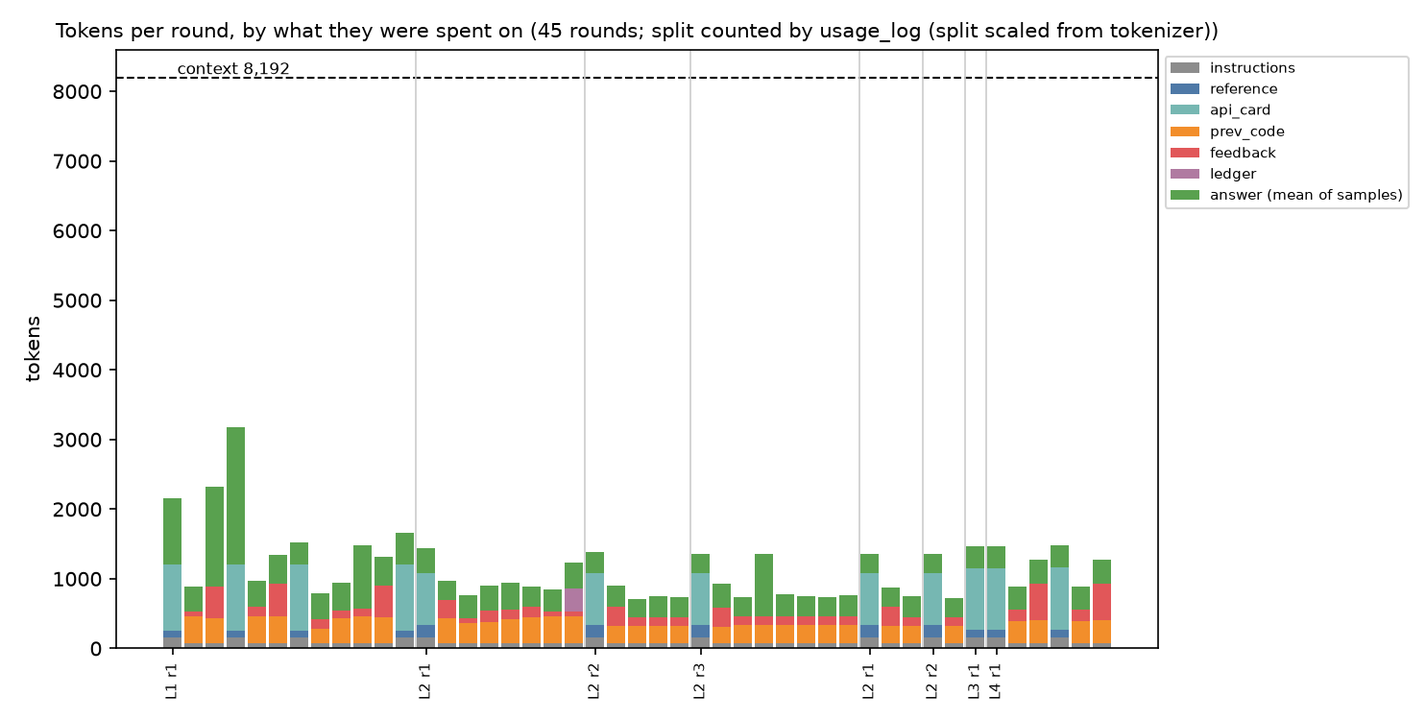
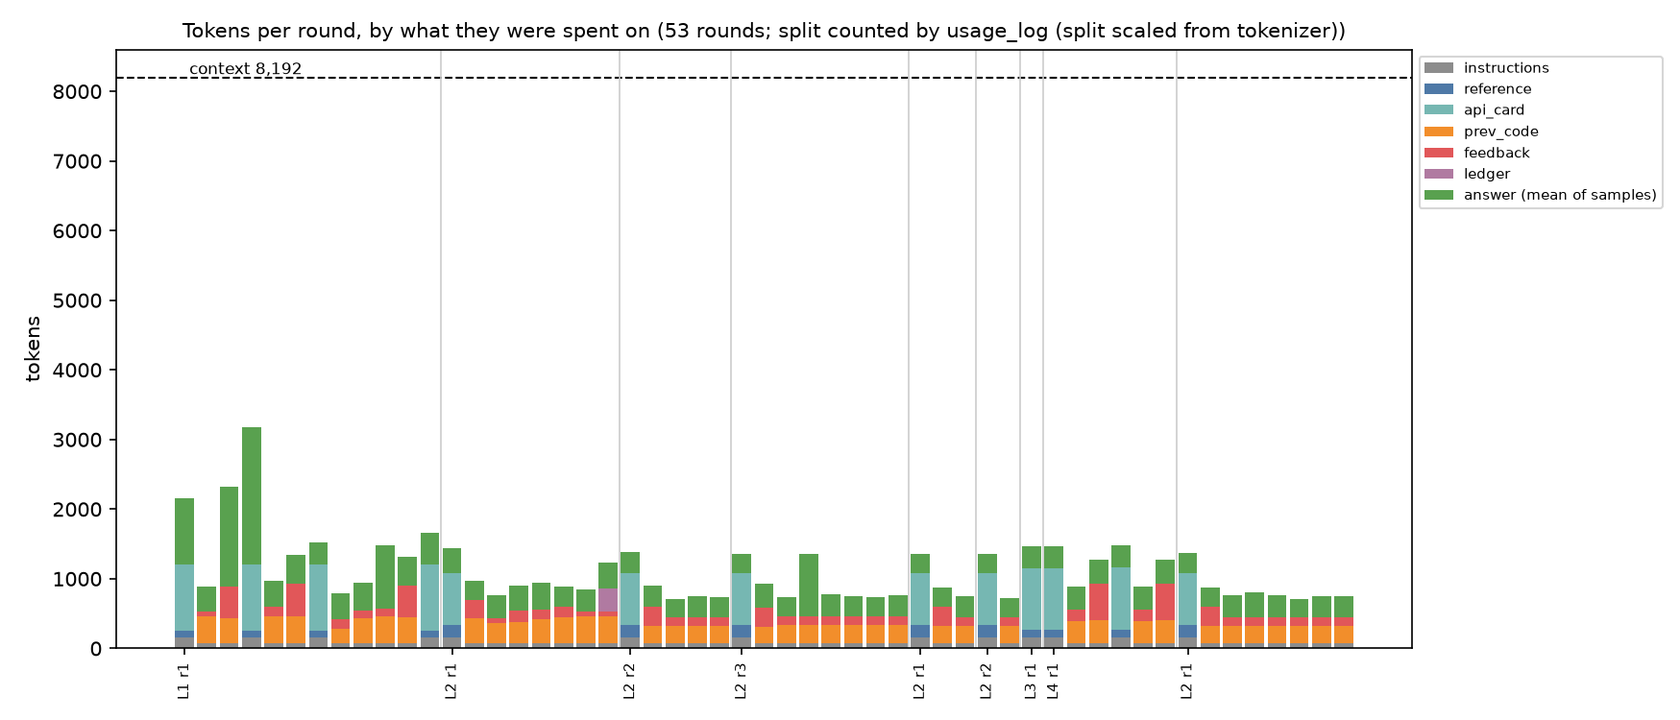
final_v82: add the finished extra level-2 run (seat-117 v82x); L2 is 3/6
Logs pulled by 16:57. seat-117's v82x_L2 (same v8.2 configuration) finished
unsolved at 0.50 -- rounds 1-7 all 0.50; of its eight 0.50 attempts, six
drop a loop variable and one returns x unchanged (analysis/l2_deep's
transforms). L2 now 3/6, both verdicts NOT SOLVED/FAILED on it. The extra L1
runs on 117 and 119 were still running and are left out.

Changed region(s): [[0.0, 0.0307, 0.9912, 0.9813], [0.5886, 0.092, 0.6505, 0.1227], [0.6815, 0.092, 0.7125, 0.1227]]

diff --git a/analysis/final_v82/taxonomy.md b/analysis/final_v82/taxonomy.md
@@ -1,13 +1,13 @@
 # Failure taxonomy
 
-180 attempts in 12 level-runs from 9 log file(s); 168 failed. Each attempt is classified by the checker's error, first match wins (`scripts/taxonomy.py`).
+212 attempts in 13 level-runs from 10 log file(s); 200 failed. Each attempt is classified by the checker's error, first match wins (`scripts/taxonomy.py`).
 
 ## Solve rate per level
 
 | level | solved runs |
 |---|---|
 | 1 | 4/4 |
-| 2 | 3/5 |
+| 2 | 3/6 |
 | 3 | 1/1 |
 | 4 | 2/2 |
 
@@ -17,24 +17,24 @@
 
 | family | mode | what it means | L1 | L2 | L3 | L4 | total | % of failures | runs | stuck | example |
 |---|---|---|---|---|---|---|---|---|---|---|---|
-| index arithmetic | `copy_size_mismatch` | copies between tiles of different sizes | 1 | 68 |  |  | 69 | 41% | 6 | 0% | AssertionError: dma_copy requires src and dst to have the same number of elements, got src=32, dst=1 |
-| index arithmetic | `broadcast` | assigns a value of the wrong shape | 3 |  | 2 | 20 | 25 | 15% | 4 | 25% | ValueError: operands could not be broadcast together with remapped shapes [original->remapped]: (32,16,2) and  |
+| index arithmetic | `copy_size_mismatch` | copies between tiles of different sizes | 1 | 89 |  |  | 90 | 45% | 7 | 0% | AssertionError: dma_copy requires src and dst to have the same number of elements, got src=32, dst=1 |
+| index arithmetic | `broadcast` | assigns a value of the wrong shape | 3 |  | 2 | 20 | 25 | 12% | 4 | 25% | ValueError: operands could not be broadcast together with remapped shapes [original->remapped]: (32,16,2) and  |
 | index arithmetic | `axis_mismatch` | an operation given a tile with more axes than it takes | 7 |  |  |  | 7 | 4% | 3 | 0% | ValueError: input operand has more dimensions than allowed by the axis remapping |
 | index arithmetic | `out_of_bounds` | indexes past the end of a tensor | 1 | 2 |  |  | 3 | 2% | 3 | - | AssertionError: Out-of-bound access for tensor `unnamed` on dimension 2: index 2 exceed dimension size of 2. |
 | index arithmetic | `bad_access_pattern` | a strided .ap() view that does not fit the tile | 2 |  |  |  | 2 | 1% | 2 | - | AssertionError: ap() pattern has invalid partition stride. Partition step 64 must equal tensor free dimension  |
-| silent wrong numbers | `numeric_mismatch` | runs, numbers wrong | 4 | 16 |  |  | 20 | 12% | 6 | 67% | 0 of 4 shapes passed. On C,H,W=(32, 32, 32) pool=2: NUMERICAL MISMATCH: worst error 4.71 of the output's RMS ( |
+| silent wrong numbers | `numeric_mismatch` | runs, numbers wrong | 4 | 24 |  |  | 28 | 14% | 7 | 78% | 0 of 4 shapes passed. On C,H,W=(32, 32, 32) pool=2: NUMERICAL MISMATCH: worst error 4.71 of the output's RMS ( |
 | silent wrong numbers | `non_finite` | NaN or Inf in the output |  | 4 |  |  | 4 | 2% | 1 | 67% | 0 of 4 shapes passed. On shape=(32, 12) as 3x4: NON-FINITE OUTPUT: 256 NaN and 0 Inf, first at (0, 4). Usually |
-| other | `other` |  | 8 |  |  |  | 8 | 5% | 3 | 0% | Correct in the simulator on every shape, but the trn2 compiler rejects it: the chip has no such instruction, s |
-| rules / format | `truncated` | the answer hit max_tokens and was cut off (finish=length); the checker then sees broken code | 7 | 1 |  |  | 8 | 5% | 4 | - | Your previous answer was cut off at the token limit before the code was complete. Reply with a shorter kernel: |
-| rules / format | `rule_violation` | banned call, missing @nki.jit or wrong entry name |  | 4 |  |  | 4 | 2% | 3 | - | Rule violations, which score zero however fast the kernel is. |
-| memory model | `python_op_on_tile` | Python arithmetic (+=, *) on a tile | 5 |  |  |  | 5 | 3% | 3 | - | TypeError: unsupported operand type(s) for /: 'NkiTensor' and 'int' Python operators like `/` do not work on t |
+| other | `other` |  | 8 |  |  |  | 8 | 4% | 3 | 0% | Correct in the simulator on every shape, but the trn2 compiler rejects it: the chip has no such instruction, s |
+| rules / format | `truncated` | the answer hit max_tokens and was cut off (finish=length); the checker then sees broken code | 7 | 1 |  |  | 8 | 4% | 4 | - | Your previous answer was cut off at the token limit before the code was complete. Reply with a shorter kernel: |
+| rules / format | `rule_violation` | banned call, missing @nki.jit or wrong entry name |  | 7 |  |  | 7 | 4% | 4 | - | Rule violations, which score zero however fast the kernel is. |
+| memory model | `python_op_on_tile` | Python arithmetic (+=, *) on a tile | 5 |  |  |  | 5 | 2% | 3 | - | TypeError: unsupported operand type(s) for /: 'NkiTensor' and 'int' Python operators like `/` do not work on t |
 | memory model | `wrong_buffer` | a tile in the wrong memory (SBUF / PSUM / HBM) | 1 | 2 |  |  | 3 | 2% | 2 | 50% | AssertionError: tensor_copy dst must be in ['sbuf', 'psum'], got shared_hbm `nisa.tensor_copy` only moves data |
 | API | `invented_name` | calls an NKI function or attribute that does not exist | 1 | 2 |  |  | 3 | 2% | 3 | 0% | AttributeError: module 'nki.language' has no attribute 'reshape' nl has no reshape. |
 | API | `wrong_signature` | right function, wrong arguments | 1 | 1 |  |  | 2 | 1% | 2 | - | TypeError: sum() got an unexpected keyword argument 'dst' |
 | tiling rules | `tile_1d` | a 1-D tile (every SBUF/PSUM tile needs 2 dims) | 3 |  |  |  | 3 | 2% | 2 | 0% | AssertionError: SBUF and PSUM tensors must have at least 2 dimensions (partition-dim and free-dim) |
 | tiling rules | `partition_over_128` | a tile or contraction larger than 128 partitions |  |  |  | 2 | 2 | 1% | 2 | 0% | AssertionError: dma_copy dst partition dimension 256 exceeds maximum 128 `lhs_tile` and `rhs_tile` are bigger  |
 
-By family: **index arithmetic** 106 (63%), **silent wrong numbers** 24 (14%), **rules / format** 12 (7%), **other** 8 (5%), **memory model** 8 (5%), **API** 5 (3%), **tiling rules** 5 (3%)
+By family: **index arithmetic** 127 (64%), **silent wrong numbers** 32 (16%), **rules / format** 15 (8%), **other** 8 (4%), **memory model** 8 (4%), **API** 5 (2%), **tiling rules** 5 (2%)
 
 ## Fixed one thing, broke another
 
@@ -42,7 +42,7 @@ Round-to-round changes in the carried attempt's failure mode (not counting a sol
 
 | was | became | times |
 |---|---|---|
-| `copy_size_mismatch` | `numeric_mismatch` | 3 |
+| `copy_size_mismatch` | `numeric_mismatch` | 4 |
 | `broadcast` | `partition_over_128` | 2 |
 | `axis_mismatch` | `other` | 1 |
 | `tile_1d` | `other` | 1 |
@@ -57,8 +57,8 @@ Round-to-round changes in the carried attempt's failure mode (not counting a sol
 
 | level | last failure | runs |
 |---|---|---|
+| 2 | `numeric_mismatch` | 2 |
 | 2 | `non_finite` | 1 |
-| 2 | `numeric_mismatch` | 1 |
 
 8 attempt(s) were cut off by the token budget (finish=length).
 
@@ -69,10 +69,10 @@ After the loop, each level's best kernel ran once on shapes and values it never 
 | level | verdict | runs |
 |---|---|---|
 | 1 | VERIFIED | 4 |
-| 2 | NOT SOLVED | 2 |
+| 2 | NOT SOLVED | 3 |
 | 2 | VERIFIED | 3 |
 | 3 | VERIFIED | 1 |
 | 4 | VERIFIED | 2 |
 
-Calibration over 12 verdicts: Brier score 0.019; confident (>= 0.5) but wrong 0 time(s).
+Calibration over 13 verdicts: Brier score 0.017; confident (>= 0.5) but wrong 0 time(s).
 

diff --git a/analysis/final_v82/summary.md b/analysis/final_v82/summary.md
@@ -3,7 +3,7 @@
 | level | runs | solved | best score per run | mean | min | max | solve: attempts / round | tokens per run (prompt+answer) | cut off by max_tokens, per run (attempts, rounds, those rounds' wall time) | minutes per run (first request to last answer) | verdicts | held-out claims | mean confidence | Brier | confident (>=0.5) but wrong | v7 verdicts | v7 mean confidence | v7 Brier (vs our held-out) | v7 confident but failed our held-out | baseline |
 |---|---|---|---|---|---|---|---|---|---|---|---|---|---|---|---|---|---|---|---|---|
 | 1 | 4 | 4/4 | 1.00 1.00 1.00 1.00 | 1.00 | 1.00 | 1.00 | run 1: attempt 9, round 2; run 2: attempt 9, round 2; run 3: attempt 17, round 4; run 4: attempt 3, round 0 | 13,595+10,935; 13,702+11,023; 21,915+9,679; 4,856+1,793 | 3 in 2 round(s), 7.5 min; 3 in 1 round(s), 7.4 min; 1 in 1 round(s), 3.7 min; 0 | 8.8 10.1 8.7 1.4 | 4 | VERIFIED 4 | 0.90 | 0.010 | 0 | VERIFIED 4 | 0.90 | 0.010 | 0 | 0/5, mean 0.30 |
-| 2 | 5 | 3/5 | 0.50 1.00 0.50 1.00 1.00 | 0.80 | 0.50 | 1.00 | run 2: attempt 19, round 4; run 4: attempt 11, round 2; run 5: attempt 5, round 1 | 31,498+10,720; 19,381+5,844; 30,640+11,932; 11,939+3,471; 8,074+2,186 | 0; 0; 1 in 1 round(s), 3.5 min; 0; 0 | 8.7 4.7 10.1 2.8 1.7 | 5 | VERIFIED 3, NOT SOLVED 2 | 0.54 | 0.006 | 0 | VERIFIED 3, FAILED 2 | 0.54 | 0.006 | 0 | 3/5, mean 0.72 |
+| 2 | 6 | 3/6 | 0.50 1.00 0.50 1.00 1.00 0.50 | 0.75 | 0.50 | 1.00 | run 2: attempt 19, round 4; run 4: attempt 11, round 2; run 5: attempt 5, round 1 | 31,498+10,720; 19,381+5,844; 30,640+11,932; 11,939+3,471; 8,074+2,186; 30,545+9,759 | 0; 0; 1 in 1 round(s), 3.5 min; 0; 0; 0 | 8.7 4.7 10.1 2.8 1.7 7.9 | 6 | VERIFIED 3, NOT SOLVED 3 | 0.45 | 0.005 | 0 | VERIFIED 3, FAILED 3 | 0.45 | 0.005 | 0 | 3/5, mean 0.72 |
 | 3 | 1 | 1/1 | 1.00 | 1.00 | 1.00 | 1.00 | run 1: attempt 1, round 0 | 4,624+1,280 | 0 | 1.0 | 1 | VERIFIED 1 | 0.63 | 0.137 | 0 | VERIFIED 1 | 0.74 | 0.067 | 0 | 0/5, mean 0.30 |
 | 4 | 2 | 2/2 | 1.00 1.00 | 1.00 | 1.00 | 1.00 | run 1: attempt 9, round 2; run 2: attempt 9, round 2 | 13,077+3,967; 13,101+3,967 | 0; 0 | 9.5 11.7 | 2 | VERIFIED 2 | 0.90 | 0.010 | 0 | VERIFIED 2 | 0.88 | 0.014 | 0 | 0/5, mean 0.60 |
 
@@ -16,13 +16,13 @@ Both verdicts after every level, scored against the same outcome: did the kernel
 | level | pairs scored | ours: mean confidence | ours: Brier | ours: confident but wrong | v7: mean confidence | v7: Brier | v7: confident but wrong |
 |---|---|---|---|---|---|---|---|
 | 1 | 4 | 0.90 | 0.010 | 0 | 0.90 | 0.010 | 0 |
-| 2 | 5 | 0.54 | 0.006 | 0 | 0.54 | 0.006 | 0 |
+| 2 | 6 | 0.45 | 0.005 | 0 | 0.45 | 0.005 | 0 |
 | 3 | 1 | 0.63 | 0.137 | 0 | 0.74 | 0.067 | 0 |
 | 4 | 2 | 0.90 | 0.010 | 0 | 0.88 | 0.014 | 0 |
 
 Unpaired verdicts: none.
 
-Tokens: server counts from the usage log for 180 of 180 attempts; 0 unmatched kept chars/4 estimates (marked "est." per run).
+Tokens: server counts from the usage log for 212 of 212 attempts; 0 unmatched kept chars/4 estimates (marked "est." per run).
 
 ## Inputs
 
@@ -37,6 +37,7 @@ Tokens: server counts from the usage log for 180 of 180 attempts; 0 unmatched ke
 | attempts | `../trainium-agent-labs/runs/seat-116/v82/v82_L3_s116.jsonl` | `1093d4a6eaba2e69c9daa9f6c940f984` | untracked |
 | attempts | `../trainium-agent-labs/runs/seat-119/v82/v82_L4_s119.jsonl` | `d73b32266a111bd66fb7b5eacb52f9a0` | untracked |
 | attempts | `../trainium-agent-labs/runs/seat-119/v82/v82_L4b_s119.jsonl` | `d73b32266a111bd66fb7b5eacb52f9a0` | untracked |
+| attempts | `../trainium-agent-labs/runs/seat-117/v82x_partial/v82x_L2_s117.jsonl` | `848f50ab3a926dc32adb9cbc8a042e89` | untracked |
 | verdicts | `../trainium-agent-labs/runs/seat-117/v82/v82_L1_s117_verdicts.jsonl` | `7b14820a72293a9906b57f4d62f25a71` | untracked |
 | verdicts | `../trainium-agent-labs/runs/seat-118/v82/v82_L1_s118_verdicts.jsonl` | `ac45d3a0770a5c7e6503d5e5ffe5a651` | untracked |
 | verdicts | `../trainium-agent-labs/runs/seat-117/v82/v82_L1b_s117_verdicts.jsonl` | `8ec2cd920be77e920117f026e8ab7625` | untracked |
@@ -46,6 +47,7 @@ Tokens: server counts from the usage log for 180 of 180 attempts; 0 unmatched ke
 | verdicts | `../trainium-agent-labs/runs/seat-116/v82/v82_L3_s116_verdicts.jsonl` | `4f8b053b8db984ba276fb76899f23165` | untracked |
 | verdicts | `../trainium-agent-labs/runs/seat-119/v82/v82_L4_s119_verdicts.jsonl` | `ea0cfb846d758399239fd9e86e2959a0` | untracked |
 | verdicts | `../trainium-agent-labs/runs/seat-119/v82/v82_L4b_s119_verdicts.jsonl` | `1b0b2ea32f8fd25645e395548fee18cc` | untracked |
+| verdicts | `../trainium-agent-labs/runs/seat-117/v82x_partial/v82x_L2_s117_verdicts.jsonl` | `083126798345967eda8537edc1c46751` | untracked |
 | baseline | `analysis/logs/baseline/attempts.jsonl` | `9275898538ed1a69c28a8a5fa52a3788` | a0af434 |
 | usage | `../trainium-agent-labs/runs/seat-117/v82/v82_L1_s117_usage.jsonl` | `b3ef2dce0bb6cac56db4f315209fd497` | untracked |
 | usage | `../trainium-agent-labs/runs/seat-118/v82/v82_L1_s118_usage.jsonl` | `24f117bf63e405e61b523c58ec21fff3` | untracked |
@@ -56,6 +58,7 @@ Tokens: server counts from the usage log for 180 of 180 attempts; 0 unmatched ke
 | usage | `../trainium-agent-labs/runs/seat-116/v82/v82_L3_s116_usage.jsonl` | `b3282d4db6f8049d0a088663254a1415` | untracked |
 | usage | `../trainium-agent-labs/runs/seat-119/v82/v82_L4_s119_usage.jsonl` | `7fffd2cebe19cad448f0faf876c8bc7d` | untracked |
 | usage | `../trainium-agent-labs/runs/seat-119/v82/v82_L4b_s119_usage.jsonl` | `738f9cbb88d8642a4adaf23eccd85968` | untracked |
+| usage | `../trainium-agent-labs/runs/seat-117/v82x_partial/v82x_L2_s117_usage.jsonl` | `f73402c946654fb1d25456ff509c51d5` | untracked |
 | v7 verdicts | `../trainium-agent-labs/runs/seat-117/v82/v82_L1_s117_nki_verdicts.jsonl` | `6925daaab82a7949e763b1002fff324d` | untracked |
 | v7 verdicts | `../trainium-agent-labs/runs/seat-118/v82/v82_L1_s118_nki_verdicts.jsonl` | `36ce6bcfd8f67f1617b8c4d6d3abaf99` | untracked |
 | v7 verdicts | `../trainium-agent-labs/runs/seat-117/v82/v82_L1b_s117_nki_verdicts.jsonl` | `99131aa8e1141368b38717b2a80be98b` | untracked |
@@ -65,3 +68,4 @@ Tokens: server counts from the usage log for 180 of 180 attempts; 0 unmatched ke
 | v7 verdicts | `../trainium-agent-labs/runs/seat-116/v82/v82_L3_s116_nki_verdicts.jsonl` | `6c34567c2fca41f52a2607e8389482b8` | untracked |
 | v7 verdicts | `../trainium-agent-labs/runs/seat-119/v82/v82_L4_s119_nki_verdicts.jsonl` | `176ece2076ec88809f42ab9fde1cd456` | untracked |
 | v7 verdicts | `../trainium-agent-labs/runs/seat-119/v82/v82_L4b_s119_nki_verdicts.jsonl` | `ea8a7bf570f8cdb0c636344873eead74` | untracked |
+| v7 verdicts | `../trainium-agent-labs/runs/seat-117/v82x_partial/v82x_L2_s117_nki_verdicts.jsonl` | `bfd7428125729d179671ba31c5c1513b` | untracked |

diff --git a/analysis/final_v82/checks.md b/analysis/final_v82/checks.md
@@ -2,15 +2,15 @@
 
 Files found (in the order used):
 
-- **attempts**: `../trainium-agent-labs/runs/seat-117/v82/v82_L1_s117.jsonl`, `../trainium-agent-labs/runs/seat-118/v82/v82_L1_s118.jsonl`, `../trainium-agent-labs/runs/seat-117/v82/v82_L1b_s117.jsonl`, `../trainium-agent-labs/runs/seat-118/v82/v82_L1b_s118.jsonl`, `../trainium-agent-labs/runs/seat-116/v82/v82_L2_s116.jsonl`, `../trainium-agent-labs/runs/seat-119/v82/v82_L2_s119.jsonl`, `../trainium-agent-labs/runs/seat-116/v82/v82_L3_s116.jsonl`, `../trainium-agent-labs/runs/seat-119/v82/v82_L4_s119.jsonl`, `../trainium-agent-labs/runs/seat-119/v82/v82_L4b_s119.jsonl`
-- **verdicts**: `../trainium-agent-labs/runs/seat-117/v82/v82_L1_s117_verdicts.jsonl`, `../trainium-agent-labs/runs/seat-118/v82/v82_L1_s118_verdicts.jsonl`, `../trainium-agent-labs/runs/seat-117/v82/v82_L1b_s117_verdicts.jsonl`, `../trainium-agent-labs/runs/seat-118/v82/v82_L1b_s118_verdicts.jsonl`, `../trainium-agent-labs/runs/seat-116/v82/v82_L2_s116_verdicts.jsonl`, `../trainium-agent-labs/runs/seat-119/v82/v82_L2_s119_verdicts.jsonl`, `../trainium-agent-labs/runs/seat-116/v82/v82_L3_s116_verdicts.jsonl`, `../trainium-agent-labs/runs/seat-119/v82/v82_L4_s119_verdicts.jsonl`, `../trainium-agent-labs/runs/seat-119/v82/v82_L4b_s119_verdicts.jsonl`
-- **nki_verdicts**: `../trainium-agent-labs/runs/seat-117/v82/v82_L1_s117_nki_verdicts.jsonl`, `../trainium-agent-labs/runs/seat-118/v82/v82_L1_s118_nki_verdicts.jsonl`, `../trainium-agent-labs/runs/seat-117/v82/v82_L1b_s117_nki_verdicts.jsonl`, `../trainium-agent-labs/runs/seat-118/v82/v82_L1b_s118_nki_verdicts.jsonl`, `../trainium-agent-labs/runs/seat-116/v82/v82_L2_s116_nki_verdicts.jsonl`, `../trainium-agent-labs/runs/seat-119/v82/v82_L2_s119_nki_verdicts.jsonl`, `../trainium-agent-labs/runs/seat-116/v82/v82_L3_s116_nki_verdicts.jsonl`, `../trainium-agent-labs/runs/seat-119/v82/v82_L4_s119_nki_verdicts.jsonl`, `../trainium-agent-labs/runs/seat-119/v82/v82_L4b_s119_nki_verdicts.jsonl`
-- **usage**: `../trainium-agent-labs/runs/seat-117/v82/v82_L1_s117_usage.jsonl`, `../trainium-agent-labs/runs/seat-118/v82/v82_L1_s118_usage.jsonl`, `../trainium-agent-labs/runs/seat-117/v82/v82_L1b_s117_usage.jsonl`, `../trainium-agent-labs/runs/seat-118/v82/v82_L1b_s118_usage.jsonl`, `../trainium-agent-labs/runs/seat-116/v82/v82_L2_s116_usage.jsonl`, `../trainium-agent-labs/runs/seat-119/v82/v82_L2_s119_usage.jsonl`, `../trainium-agent-labs/runs/seat-116/v82/v82_L3_s116_usage.jsonl`, `../trainium-agent-labs/runs/seat-119/v82/v82_L4_s119_usage.jsonl`, `../trainium-agent-labs/runs/seat-119/v82/v82_L4b_s119_usage.jsonl`
+- **attempts**: `../trainium-agent-labs/runs/seat-117/v82/v82_L1_s117.jsonl`, `../trainium-agent-labs/runs/seat-118/v82/v82_L1_s118.jsonl`, `../trainium-agent-labs/runs/seat-117/v82/v82_L1b_s117.jsonl`, `../trainium-agent-labs/runs/seat-118/v82/v82_L1b_s118.jsonl`, `../trainium-agent-labs/runs/seat-116/v82/v82_L2_s116.jsonl`, `../trainium-agent-labs/runs/seat-119/v82/v82_L2_s119.jsonl`, `../trainium-agent-labs/runs/seat-116/v82/v82_L3_s116.jsonl`, `../trainium-agent-labs/runs/seat-119/v82/v82_L4_s119.jsonl`, `../trainium-agent-labs/runs/seat-119/v82/v82_L4b_s119.jsonl`, `../trainium-agent-labs/runs/seat-117/v82x_partial/v82x_L2_s117.jsonl`
+- **verdicts**: `../trainium-agent-labs/runs/seat-117/v82/v82_L1_s117_verdicts.jsonl`, `../trainium-agent-labs/runs/seat-118/v82/v82_L1_s118_verdicts.jsonl`, `../trainium-agent-labs/runs/seat-117/v82/v82_L1b_s117_verdicts.jsonl`, `../trainium-agent-labs/runs/seat-118/v82/v82_L1b_s118_verdicts.jsonl`, `../trainium-agent-labs/runs/seat-116/v82/v82_L2_s116_verdicts.jsonl`, `../trainium-agent-labs/runs/seat-119/v82/v82_L2_s119_verdicts.jsonl`, `../trainium-agent-labs/runs/seat-116/v82/v82_L3_s116_verdicts.jsonl`, `../trainium-agent-labs/runs/seat-119/v82/v82_L4_s119_verdicts.jsonl`, `../trainium-agent-labs/runs/seat-119/v82/v82_L4b_s119_verdicts.jsonl`, `../trainium-agent-labs/runs/seat-117/v82x_partial/v82x_L2_s117_verdicts.jsonl`
+- **nki_verdicts**: `../trainium-agent-labs/runs/seat-117/v82/v82_L1_s117_nki_verdicts.jsonl`, `../trainium-agent-labs/runs/seat-118/v82/v82_L1_s118_nki_verdicts.jsonl`, `../trainium-agent-labs/runs/seat-117/v82/v82_L1b_s117_nki_verdicts.jsonl`, `../trainium-agent-labs/runs/seat-118/v82/v82_L1b_s118_nki_verdicts.jsonl`, `../trainium-agent-labs/runs/seat-116/v82/v82_L2_s116_nki_verdicts.jsonl`, `../trainium-agent-labs/runs/seat-119/v82/v82_L2_s119_nki_verdicts.jsonl`, `../trainium-agent-labs/runs/seat-116/v82/v82_L3_s116_nki_verdicts.jsonl`, `../trainium-agent-labs/runs/seat-119/v82/v82_L4_s119_nki_verdicts.jsonl`, `../trainium-agent-labs/runs/seat-119/v82/v82_L4b_s119_nki_verdicts.jsonl`, `../trainium-agent-labs/runs/seat-117/v82x_partial/v82x_L2_s117_nki_verdicts.jsonl`
+- **usage**: `../trainium-agent-labs/runs/seat-117/v82/v82_L1_s117_usage.jsonl`, `../trainium-agent-labs/runs/seat-118/v82/v82_L1_s118_usage.jsonl`, `../trainium-agent-labs/runs/seat-117/v82/v82_L1b_s117_usage.jsonl`, `../trainium-agent-labs/runs/seat-118/v82/v82_L1b_s118_usage.jsonl`, `../trainium-agent-labs/runs/seat-116/v82/v82_L2_s116_usage.jsonl`, `../trainium-agent-labs/runs/seat-119/v82/v82_L2_s119_usage.jsonl`, `../trainium-agent-labs/runs/seat-116/v82/v82_L3_s116_usage.jsonl`, `../trainium-agent-labs/runs/seat-119/v82/v82_L4_s119_usage.jsonl`, `../trainium-agent-labs/runs/seat-119/v82/v82_L4b_s119_usage.jsonl`, `../trainium-agent-labs/runs/seat-117/v82x_partial/v82x_L2_s117_usage.jsonl`
 
 | level | runs in attempts | level starts in console logs | verdicts | v7 verdicts | usage matched | problems |
 |---|---|---|---|---|---|---|
-| 1 | 4 | 5 | 4 | 4 | 48/48 | ok |
-| 2 | 5 | 5 | 5 | 5 | 104/104 | ok |
+| 1 | 4 | 6 | 4 | 4 | 48/48 | ok |
+| 2 | 6 | 6 | 6 | 6 | 136/136 | ok |
 | 3 | 1 | 1 | 1 | 1 | 4/4 | ok |
 | 4 | 2 | 3 | 2 | 2 | 24/24 | ok |
 

diff --git a/analysis/final_v82/README.md b/analysis/final_v82/README.md
@@ -1,38 +1,38 @@
 # v8.2 (96a9fc9): results by level
 
-**Cut-off: logs pulled by 16:39** (`runs/seat-116/v82`, `117/v82`, `118/v82`, `119/v82`). v8.2 is `feedback_v8.py` at
+**Cut-off: logs pulled by 16:57** (`runs/seat-116/v82`, `117/v82`, `118/v82`, `119/v82`, and the finished level-2 run in `117/v82x_partial`, one of the extra v8.2 runs on 117-119). v8.2 is `feedback_v8.py` at
 96a9fc9 with V7.md's v7 settings plus `SKELETON=0 L1FIX=1 TRUNCFIX=1 MIXSAMP=1 L2HINT=1 MIX=1` (every run log's
 header says so). Only finished runs are counted. Left out: `v82_L1c_s117` and `v82_L4c_s119`, still running at
-the cut-off, and `seat-117/v82_L1_partial`, an early copy of files already in `seat-117/v82`. The extra runs on
-116 (`final_all`) and on 117-119 had not been pulled.
+the cut-off, the extra level-1 runs `v82x_L1_s117` and `v82x_L1_s119` (still running at 16:57), and
+`seat-117/v82_L1_partial`, an early copy of files already in `seat-117/v82`. 116's `final_all` had not been pulled.
 
 Made with `scripts/report.py` (checks, summary, taxonomy, token chart; every attempt matched to the server's
 token counts) and `scripts/compare.py` (against v7 round 2 and the baseline + replica). All 10 distinct
-solving kernels re-audited in a fresh process with `NEURON_PLATFORM_TARGET_OVERRIDE=trn2`: 10 PASS.
+solving kernels (the added run solved nothing, so still 10) re-audited in a fresh process with `NEURON_PLATFORM_TARGET_OVERRIDE=trn2`: 10 PASS.
 
 | level | solved | scores | first 1.0 (round, from 0) | distinct trajectories | distinct solving kernels | held-out (ours / v7's verdict) | minutes per run | tokens per run, prompt + answer (server counts) | cut off |
 |---|---|---|---|---|---|---|---|---|---|
 | 1 | **4/4** | 1 1 1 1 | 2, 2, 4, 0 | 4 | 4 | VERIFIED 4 / VERIFIED 4 | 8.8, 10.1, 8.7, 1.4 | 13.6k+10.9k, 13.7k+11.0k, 21.9k+9.7k, 4.9k+1.8k | 7 attempts, about 19 min in total |
-| 2 | **3/5** | .5 1 .5 1 1 | -, 4, -, 2, 1 | 5 | 3 | VERIFIED 3, NOT SOLVED 2 / VERIFIED 3, FAILED 2 | 8.7, 4.7, 10.1, 2.8, 1.7 | 31.5k+10.7k, 19.4k+5.8k, 30.6k+11.9k, 11.9k+3.5k, 8.1k+2.2k | 1 |
+| 2 | **3/6** | .5 1 .5 1 1 .5 | -, 4, -, 2, 1, - | 6 | 3 | VERIFIED 3, NOT SOLVED 3 / VERIFIED 3, FAILED 3 | 8.7, 4.7, 10.1, 2.8, 1.7, 7.9 | 31.5k+10.7k, 19.4k+5.8k, 30.6k+11.9k, 11.9k+3.5k, 8.1k+2.2k, 30.5k+9.8k | 1 |
 | 3 | **1/1** | 1 | 0 | 1 | 2 (two samples of round 0) | VERIFIED 1 / VERIFIED 1 | 1.0 | 4.6k+1.3k | 0 |
 | 4 | **2/2** | 1 1 | 2, 2 | **1** | 1 (`8339bbd6f2`, the same kernel v7 found) | VERIFIED 2 / VERIFIED 2 | 9.5, 11.7 | 13.1k+4.0k, 13.1k+4.0k | 0 |
 
 Baseline (seat-116 + replica, 10 runs each): L1 0/10, L2 5/10, L3 0/10, L4 0/10. v7 round 2: L1 0/2, L2 0/4,
 L3 5/5, L4 5/5 (`compare.md`).
 
-Calibration: every verdict pairs with the held-out result. Brier, ours / v7's: L1 0.010 / 0.010, L2 0.006 /
-0.006, L3 0.137 / 0.067, L4 0.010 / 0.014. Nobody was confident and wrong.
+Calibration: every verdict pairs with the held-out result. Brier, ours / v7's: L1 0.010 / 0.010, L2 0.005 /
+0.005, L3 0.137 / 0.067, L4 0.010 / 0.014. Nobody was confident and wrong.
 
 ## Three sentences for SUBMISSION §1
 
-v8.2 solved level 1 in 4 of 4 runs, level 2 in 3 of 5, level 3 in 1 of 1 and level 4 in 2 of 2 (the baseline:
+v8.2 solved level 1 in 4 of 4 runs, level 2 in 3 of 6, level 3 in 1 of 1 and level 4 in 2 of 2 (the baseline:
 0, 5, 0 and 0 of 10), and all 10 distinct solving kernels pass our held-out set and a fresh-process re-audit
 under trn2. Level 1 rests on four different trajectories and four different kernels, but level 4's two runs are
-one trajectory with one kernel: one piece of evidence, not two. Both level-2 failures computed a recognisable
-wrong transform (a dropped loop variable; a partial write, analysis/l2_deep.md), and both verdicts called them
-unsolved, so the agent claimed no success it did not have.
+one trajectory with one kernel: one piece of evidence, not two. All three level-2 failures sat at 0.50 on a recognisable
+wrong transform (mostly a dropped loop variable; once a partial write; analysis/l2_deep.md), and both verdicts
+called them unsolved, so the agent claimed no success it did not have.
 
 ## Notes on the check table
 
-`checks.md` lists "console starts 5" for level 1 and "3" for level 4 against 4 and 2 runs: the console logs of
-the two left-out runs still running sit in the same folders. Nothing else is flagged.
+`checks.md` lists "console starts 6" for level 1 and "3" for level 4 against 4 and 2 runs: the console logs of
+the left-out runs still running sit in the same folders. Nothing else is flagged.

diff --git a/analysis/final_v82/compare.md b/analysis/final_v82/compare.md
@@ -4,7 +4,7 @@ Divergence is measured from **v8.2**. Cell: solved/runs · round of the first 1.
 
 | config | L1 | L2 | L3 | L4 |
 |---|---|---|---|---|
-| v8.2 | **4/4** · first 1.0 r2,2,4,0 · min 8.8 10.1 8.7 1.4 · trunc 7 · traj 4 · V4 · div - | **3/5** · first 1.0 r-,4,-,2,1 · min 8.7 4.7 10.1 2.8 1.7 · trunc 1 · traj 5 · V3 NS2 · div - | **1/1** · first 1.0 r0 · min 1.0 · trunc 0 · traj 1 · V1 · div - | **2/2** · first 1.0 r2,2 · min 9.5 11.7 · trunc 0 · traj 1 · V2 · div - |
+| v8.2 | **4/4** · first 1.0 r2,2,4,0 · min 8.8 10.1 8.7 1.4 · trunc 7 · traj 4 · V4 · div - | **3/6** · first 1.0 r-,4,-,2,1,- · min 8.7 4.7 10.1 2.8 1.7 7.9 · trunc 1 · traj 6 · NS3 V3 · div - | **1/1** · first 1.0 r0 · min 1.0 · trunc 0 · traj 1 · V1 · div - | **2/2** · first 1.0 r2,2 · min 9.5 11.7 · trunc 0 · traj 1 · V2 · div - |
 | v7 | **0/2** · first 1.0 r-,- · min 28.9 2.0 · trunc 12 · traj 2 · NS1 · div r0 | **0/4** · first 1.0 r-,-,-,- · min 10.1 8.4 6.7 5.5 · trunc 0 · traj 4 · NS3 · div r0 | **5/5** · first 1.0 r0,0,0,0,0 · min 0.9 1.0 0.9 1.0 0.9 · trunc 0 · traj 3 · V5 · div r0 | **5/5** · first 1.0 r2,2,2,2,2 · min 3.4 3.3 3.3 3.3 3.3 · trunc 0 · traj 1 · V5 · div r0 |
 | baseline | **0/10** · first 1.0 r-,-,-,-,-,-,-,-,-,- · min n/a n/a n/a n/a n/a n/a n/a n/a n/a n/a · trunc 0 · traj 1 · - · div r0 | **5/10** · first 1.0 r0,-,0,-,0,0,-,-,0,- · min n/a n/a n/a n/a n/a n/a n/a n/a n/a n/a · trunc 0 · traj 9 · - · div r0 | **0/10** · first 1.0 r-,-,-,-,-,-,-,-,-,- · min n/a n/a n/a n/a n/a n/a n/a n/a n/a n/a · trunc 0 · traj 10 · - · div r0 | **0/10** · first 1.0 r-,-,-,-,-,-,-,-,-,- · min n/a n/a n/a n/a n/a n/a n/a n/a n/a n/a · trunc 0 · traj 10 · - · div r0 |
 
@@ -24,6 +24,7 @@ Divergence is measured from **v8.2**. Cell: solved/runs · round of the first 1.
 - v8.2 attempts: `../trainium-agent-labs/runs/seat-116/v82/v82_L3_s116.jsonl`
 - v8.2 attempts: `../trainium-agent-labs/runs/seat-119/v82/v82_L4_s119.jsonl`
 - v8.2 attempts: `../trainium-agent-labs/runs/seat-119/v82/v82_L4b_s119.jsonl`
+- v8.2 attempts: `../trainium-agent-labs/runs/seat-117/v82x_partial/v82x_L2_s117.jsonl`
 - v8.2 verdicts: `../trainium-agent-labs/runs/seat-117/v82/v82_L1_s117_verdicts.jsonl`
 - v8.2 verdicts: `../trainium-agent-labs/runs/seat-118/v82/v82_L1_s118_verdicts.jsonl`
 - v8.2 verdicts: `../trainium-agent-labs/runs/seat-117/v82/v82_L1b_s117_verdicts.jsonl`
@@ -33,6 +34,7 @@ Divergence is measured from **v8.2**. Cell: solved/runs · round of the first 1.
 - v8.2 verdicts: `../trainium-agent-labs/runs/seat-116/v82/v82_L3_s116_verdicts.jsonl`
 - v8.2 verdicts: `../trainium-agent-labs/runs/seat-119/v82/v82_L4_s119_verdicts.jsonl`
 - v8.2 verdicts: `../trainium-agent-labs/runs/seat-119/v82/v82_L4b_s119_verdicts.jsonl`
+- v8.2 verdicts: `../trainium-agent-labs/runs/seat-117/v82x_partial/v82x_L2_s117_verdicts.jsonl`
 - v8.2 usage: `../trainium-agent-labs/runs/seat-117/v82/v82_L1_s117_usage.jsonl`
 - v8.2 usage: `../trainium-agent-labs/runs/seat-118/v82/v82_L1_s118_usage.jsonl`
 - v8.2 usage: `../trainium-agent-labs/runs/seat-117/v82/v82_L1b_s117_usage.jsonl`
@@ -42,6 +44,7 @@ Divergence is measured from **v8.2**. Cell: solved/runs · round of the first 1.
 - v8.2 usage: `../trainium-agent-labs/runs/seat-116/v82/v82_L3_s116_usage.jsonl`
 - v8.2 usage: `../trainium-agent-labs/runs/seat-119/v82/v82_L4_s119_usage.jsonl`
 - v8.2 usage: `../trainium-agent-labs/runs/seat-119/v82/v82_L4b_s119_usage.jsonl`
+- v8.2 usage: `../trainium-agent-labs/runs/seat-117/v82x_partial/v82x_L2_s117_usage.jsonl`
 - v7 attempts: `../trainium-agent-labs/runs/seat-119/Ev7_L1/Ev7_L1.jsonl`
 - v7 attempts: `../trainium-agent-labs/runs/seat-116/Ev7_L2/Ev7_L2.jsonl`
 - v7 attempts: `../trainium-agent-labs/runs/seat-117/Ev7_L3/Ev7_L3.jsonl`
